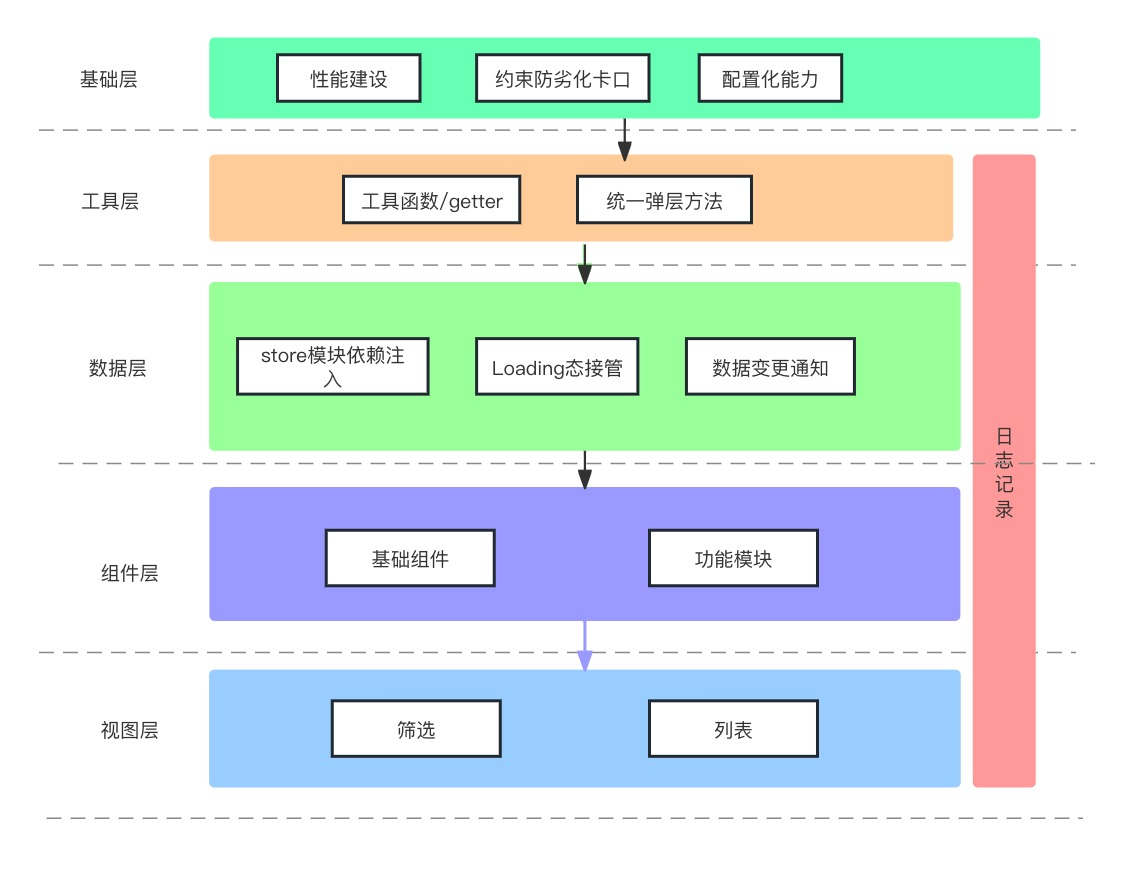
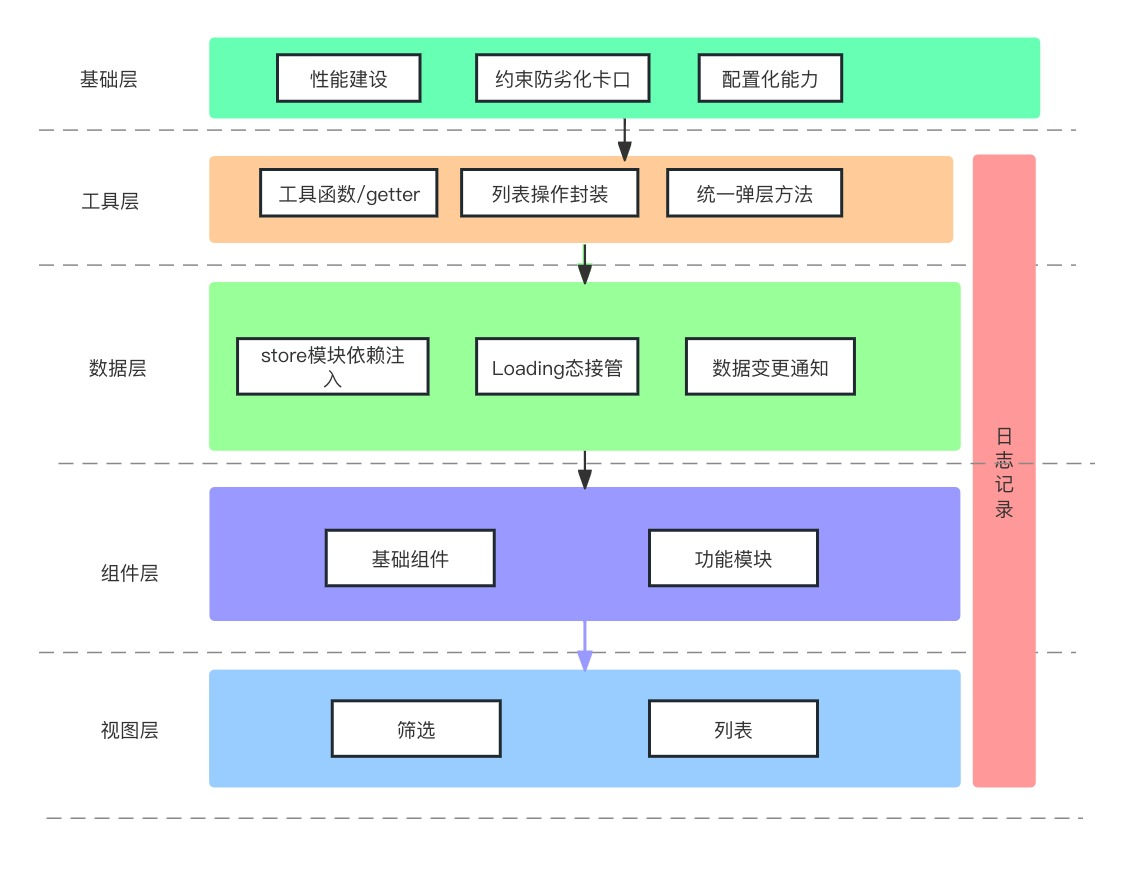
feat: track

Changed region(s): [[0.2164, 0.186, 0.773, 0.279]]

diff --git a/src/post/thought/codeRefactor.md b/src/post/thought/codeRefactor.md
@@ -1,6 +1,6 @@
 ---
 title: 列表技术方案设计(迭代版)
-date: "2023-12-21"
+date: "2023-12-27"
 tags: 工程化
 path: /code-refactor
 ---
@@ -12,11 +12,47 @@ path: /code-refactor
 ## 基础层
 
 ### 性能建设
-拆包/按需加载/首屏性能问题/列表渲染次数
+拆包: 大文件扫描
+按需加载
+页面性能
 
 ### 约束防劣化卡口
-* 大文件强约束(max-len卡口)
+* 文件强约束(max-len卡口/complexity复杂度卡口)
 * 基础组件修改代码提交提示
+
+
+      #! /bin/bash shell
+      // 需要重点关注的目录
+      SUB='src/post/weeklyReport'
+      COMPARE="master"
+      LINE="-----------------------------"
+      // 默认对比master
+      if [[ $1 ]]; then
+          COMPARE=$1
+      fi
+      array=$(git diff $COMPARE --name-only)
+      resultArr=()
+      echo $LINE
+
+      if [[ $array ]]; then
+             for i in $array
+              do
+                  // 改动的文件中命中了匹配规则
+                  if [[ "$i" == *"$SUB"* ]]; then
+                  resultArr+=("$i")
+                  fi
+              done 
+      fi
+      resultLength=${#resultArr[@]} 
+      echo $resultLength
+      // 
+      if [ "$resultLength" -gt 0 ]; then 
+          echo '修改了关键内容，请注意改动范围'
+          for i in "${resultArr[@]}"
+              do
+                  echo $i
+              done
+      fi
 
 ### 配置化能力
 * 表格基础展示项配置化实现
@@ -30,10 +66,13 @@ path: /code-refactor
 依赖数据计算逻辑提取全局getter方法
 
 ### 列表操作封装
-封装列表操作相关逻辑,在视图层和数据层之间增加一个桥梁，这样数据层和视图层能相对解耦，代码逻辑清晰
+封装列表操作相关逻辑,在视图层和数据层之间增加一个桥梁，这样数据层和视图层能相对解耦，代码逻辑清晰，
+![mvc](./thoughtStatic/mvc.jpg)
+使用MVC模型之后，将原本糅合在数据层的页面逻辑分离，可维护性增加，调用逻辑也更加清晰
+
 
 ### 统一弹层方法
-通过统一的弹层方法，约束弹层内容的按需加载并且在方法内部管理显影状态
+通过统一的弹层方法，约束弹层内容的按需加载(lazy/Suspense/@babel/plugin-syntax-dynamic-import)并且在方法内部管理显影状态
 
 ## 数据层
 
@@ -43,14 +82,37 @@ path: /code-refactor
 ### Loading态接管
 通过[xhook](https://github.com/jpillora/xhook)对特定接口进行接管，完成自动化的loading态处理
 
+
+    const useLoading = (url: string) => {
+      const [loading, setLoading] = useState(false)
+      xhook.before(function (request) {
+          if (request.url === url) {
+              setLoading(true)
+          }
+
+        });
+      xhook.after(function (request) {
+          if (request.url === url) {
+              setLoading(false)
+          }
+
+      });
+      return {
+          loading
+      }
+    }
+
+    export default useLoading
+
+
 ### 数据变更通知
-通过在初始化阶段
+通过在store初始化的时候传入配置，在对应值变更的时候执行对应的逻辑, 通过mobx的reaction完成变化的通知，完成模块间的解耦
 
 ## 组件层
+组件层有基础组件和功能模块。基础组件是纯的UI展示类组件，这部分组件需要控制业务逻辑的入侵，在上层进行逻辑的分发控制。功能模块是列表内相对独立的模块，可以通过较少的属性传递完成逻辑的收敛。
 
-## 视图层
-
-
+## 日志
+通过对相关逻辑的封装，就能通过在入口处统一实现打点逻辑，比如调用打开弹层的方法的入口就可以实现埋点逻辑
 
 
 ## 对封装的思考  
@@ -65,6 +127,9 @@ path: /code-refactor
 * 视图/数据层
   1. 视图层尽可能减少数据层面的操作，只要UI逻辑。操作逻辑通过封装逻辑调用数据层接口实现
   2. 数据层要做好依赖的管理和拆分，防止出现改不动的现象。通过通知或者监听变更的方式去完成视图层与数据层的解耦
+
+## 2023.12.27
+* 思考如何把这些能力变成可之前迁移复用的能力
 
 
 

diff --git a/src/post/webBase/track.md b/src/post/webBase/track.md
@@ -1,0 +1,93 @@
+---
+title: 埋点方案梳理
+date: "2023-12-28"
+tags: 工程化
+path: /track-event
+summary: ""
+---
+
+埋点在产品功能迭代和排查问题等场景能提供数据基础，以下梳理项目中使用的埋点方式
+
+## 手动埋点
+手动埋点是显示的在代码中插入代码，这种方式在精准性和定制化能力上更优，过多的手动埋点会增加项目的维护成本和影响系统的性能等。
+
+## 自动化埋点
+自动化相比手动埋点方式
+* 减少了人工的工作、数据收集方便也更加全面。适用于快速迭代中获取产品的相关用户数据。
+* 缺少灵活性 一些高阶数据诉求的埋点仍然需要手动添加实现
+
+### 自动化埋点的一些实现方式
+自动化埋点在于通过程序的方式去减少手动埋点的代码量，实现一些基础埋点比如PV/点击/停留时间的打点等，替代一部分自动化埋点的能力来降低整体项目埋点的压力，为项目卸压。
+
+#### 代码注入
+通过babel插件的方式，对已有的元素的Click事件进行拼接，添加埋点逻辑，这样在出现点击行为的时候就自动实现了埋点的上报。
+
+        // 简单示例
+        module.exports = function ({ types: t }) {
+            return {
+                visitor: {
+                FunctionDeclaration(path) {
+                    // 在这里你可以添加逻辑来判断是否需要修改这个特定的函数
+                    // 这里简单地选择所有函数，并添加一个新的 console.log 语句
+
+                    const originalBody = path.node.body;
+                    // 插图新的语句
+                    const newStatement = t.expressionStatement(
+                        t.callExpression(t.memberExpression(t.identifier('console'), t.identifier('log')), [t.stringLiteral('New logic added!')])
+                    );
+
+                    path.node.body = t.blockStatement([newStatement, ...originalBody]);
+                },
+                },
+            };
+        };
+
+#### 监听(观察者模式)
+观察者模式能实现模块间的解耦，在实现自动化埋点的时候，可以在被观察者出现数据变更的时候，做对应的通过埋点逻辑
+
+
+        import { observable, reaction } from 'mobx'
+
+        const searchParam = observable({
+            name: '',
+            age: '',
+        })
+        reaction(
+            () => ({ ...searchParam }),
+            (newValue, oldValue) => { 
+                //发送埋点逻辑
+                sendEvent('搜索参数变更', {
+                    newValue, 
+                    oldValue,
+                })
+            }
+        )
+
+
+
+#### 提取范式
+在人工埋点的基础上，通过抽象去减少人工埋点的代码，比如
+* 页面的PV可以在路由切换的时候去自动的打点
+* 项目通用参数可以在埋点函数中统一加入通用参数
+* 类似页面加载时长埋点可以提取通用的hook实现
+
+
+## 埋点上的一些注意和思考
+埋点主要是为了从数据侧拿到一些数据信息辅助后面的迭代规划。埋点能实现以下的功能
+* 用户行为分析
+* 业务决策支持
+* 性能监控
+* 异常监控
+
+需要注意的是埋点也需要进行治理
+* 维护性 开发一个项目通篇都是埋点代码那这个项目的可读性就很差了。
+* 性能 
+    * 缓存队列 可以通过缓存队列 一次完成多个埋点的发送
+    * 设置采样率
+    * 减少触发频次  比如在端内场景通过bridge埋点涉及跟客户端通信，有可能会阻塞当前的UI操作，可以等待用户空闲的时候再进行埋点，例如react native中可以通过InteractionManager的runAfterInteractions来执行埋点逻辑
+
+
+
+
+
+

diff --git a/src/drafts/bookToRead.md b/src/drafts/bookToRead.md
@@ -36,3 +36,12 @@
 费雪：《利息理论》
 辛普森：《市场没有失败》
 谢作诗：《没有市场失灵这回事》
+
+
+《精要主义》
+《轻松主义》
+《海外征程》
+《实时放逐》
+《纳瓦尔宝典》
+《亲密关系》
+《系统之美》

diff --git a/src/drafts/一些梳理.md b/src/drafts/一些梳理.md
@@ -7,6 +7,10 @@ summary: ""
 ---
 
 
+// 脚本学习
+
+
+
 依赖注入
 
 
